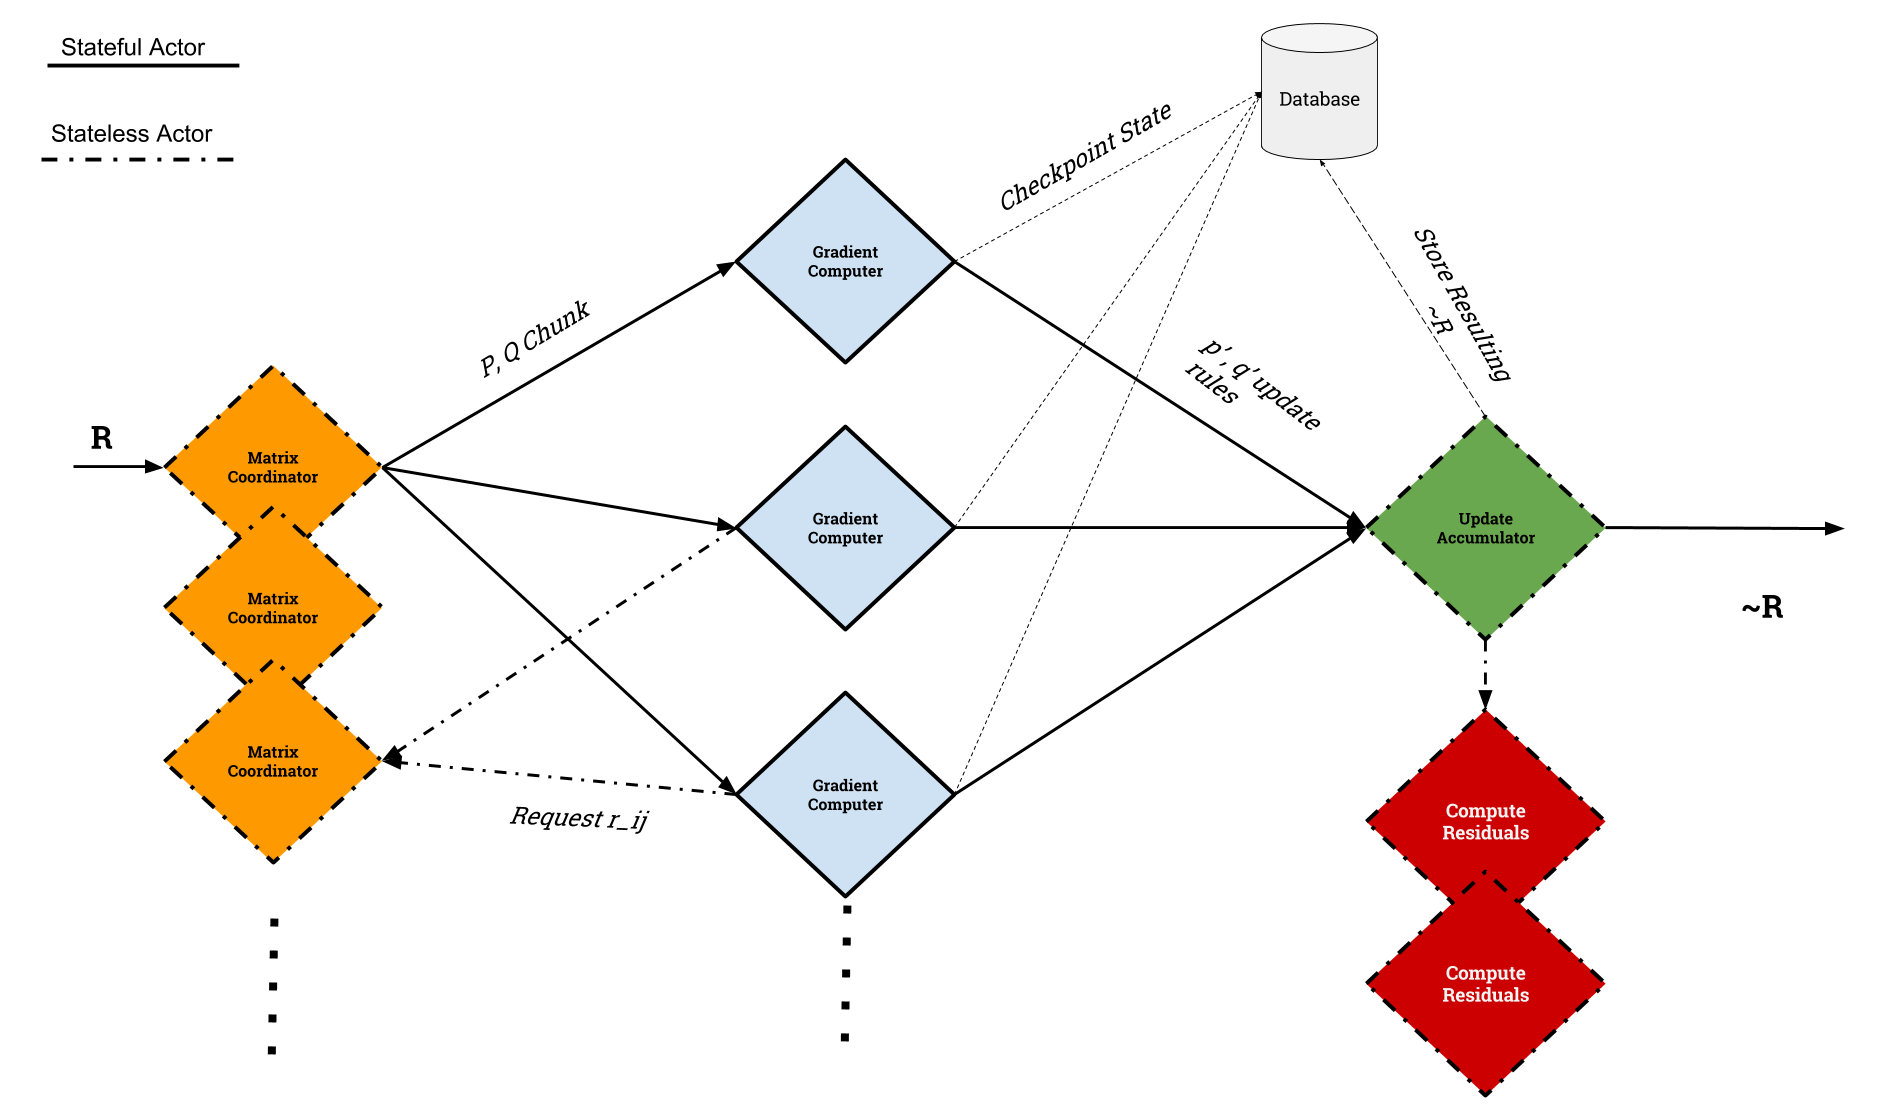
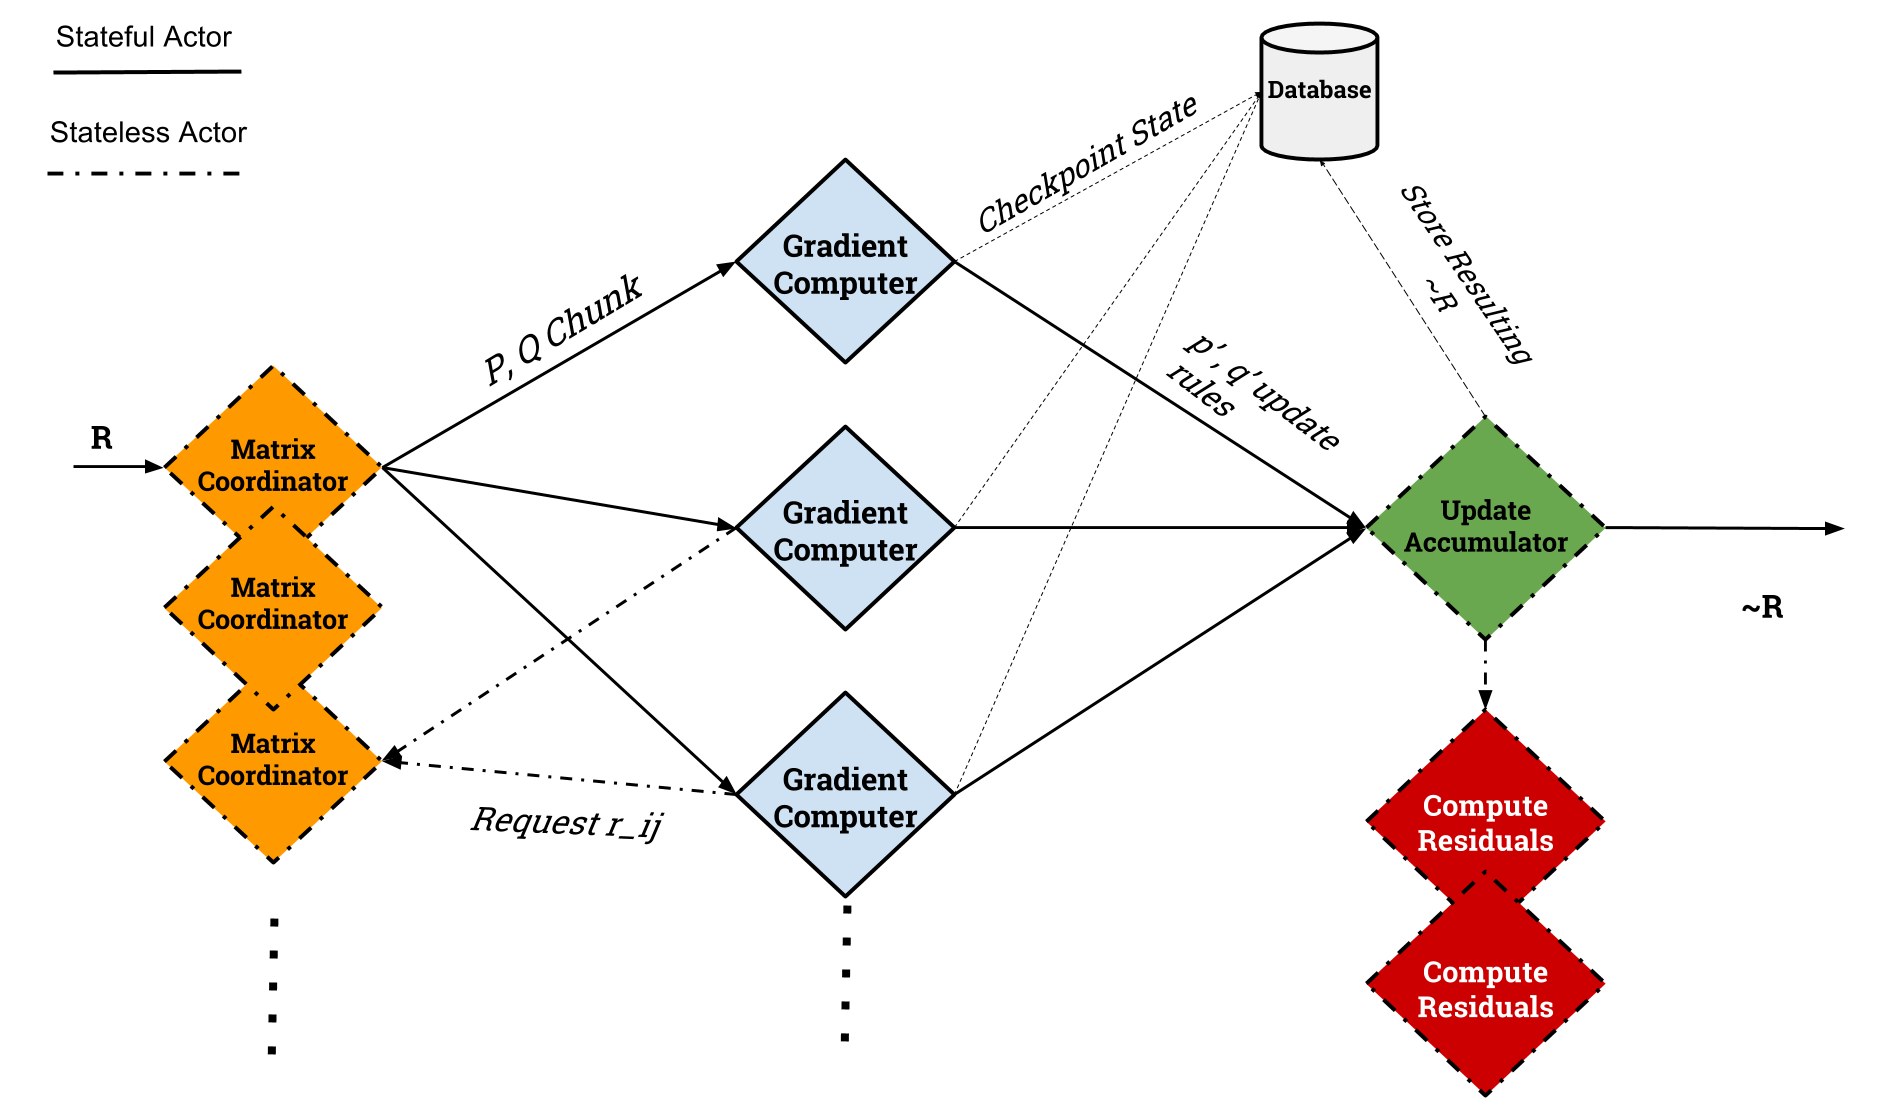
more orleans and updated figures

diff --git a/report/report.tex b/report/report.tex
@@ -106,7 +106,7 @@ Actor model MIT dissertation \cite{hewitt_viewing_1977, agha_actors:_1985}
     \label{fig:architecture}
 \end{figure}
 
-% TODO: Kostas, can you take a swing at this while I'm dealing with kids?
+The main source of inspiration for this work was the Orleans framework for building distributed applications. We believe Orleans' focus on \textit{programmability} and \textit{scalability} resonates with today's needs for ever-demanding large-scale distributed applications that need to be able to easily and continuously scale horizontally. The Orleans  framework defines a model based on a modernized variation of the actor model, known as a \textit{Virtual Actor Space}. In essence, a Virtual Actor Space consists of a set of virtual memory addresses, that can arbitrarily be used
 - Orleans was inspired by and is a modern outlook on the traditional actor model.
 - Basic idea: Virtual actors are logical entities that always exist. Actors have activations, and an activation can be spawned anywhere in the system. Actors are either stateful (only one activation at a time) or stateless (unboundedly scalable).
 - Meant as a framework for easily and  intuitively programming distributed systems.
@@ -193,7 +193,7 @@ As we analyzed the above applications we began to notice that they broadly defin
 
 Figure \ref{fig:communications_patterns} shows the corresponding communications patterns we developed from each application. The email dataflow application (a) shows a communication pattern that is unidirectional and that includes branching, partial communication. In this application a message is replicated across the cluster, usually less times than there are actors. The online recommender (b) however, shows a communication model that is front loaded, and iterative; here more messages are generated during processing than those that are incoming. These messages are then passed downstream to finalizing actors where there is more balance. Finally, the solar prediction application (c) instead reflects a multi-channel, full communication approach; where data is buffered at the front (e.g. the weaker models) then boosted through the stronger models (representing a bottleneck) before being output at the end.
 
-While these simplifications necessarily gloss over the computational requirements of an actor cast implementation of these applications, we believe that a focus on the communication patterns of actors represents the weakest point in a generalized virtual actor space. Techniques like speculative execution and heartbeat monitoring of processes allow for fault tolerance inside of communication, however the primary scaling and load balancing techniques are based solely on message load and throughput. In the next section we will discuss how we implemented our simulation of actor communication. 
+While these simplifications necessarily gloss over the computational requirements of an actor cast implementation of these applications, we believe that a focus on the communication patterns of actors represents the weakest point in a generalized virtual actor space. Techniques like speculative execution and heartbeat monitoring of processes allow for fault tolerance inside of communication, however the primary scaling and load balancing techniques are based solely on message load and throughput. In the next section we will discuss how we implemented our simulation of actor communication.
 
 \section{Simulation Methodology}
 
